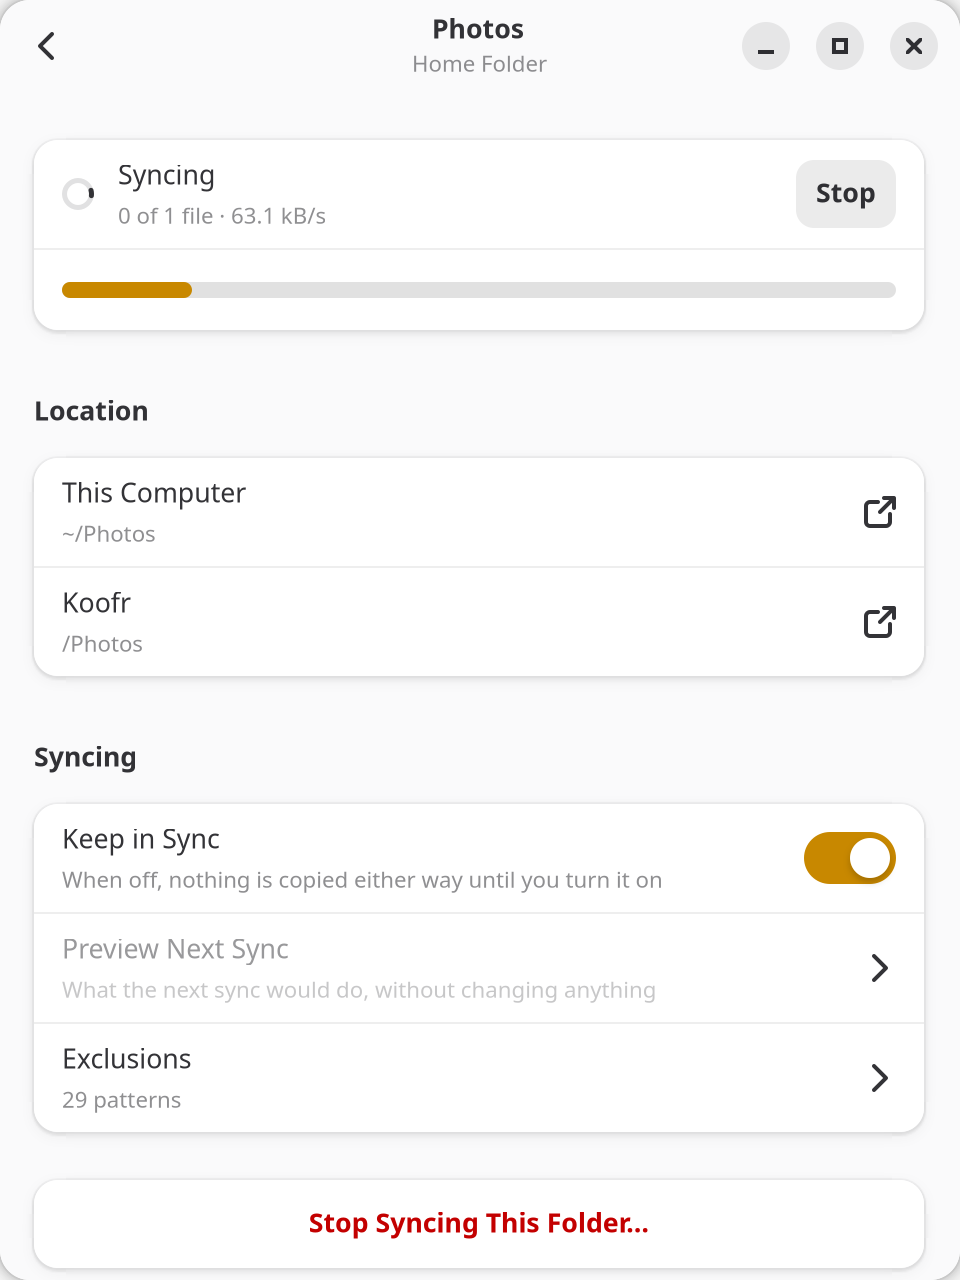
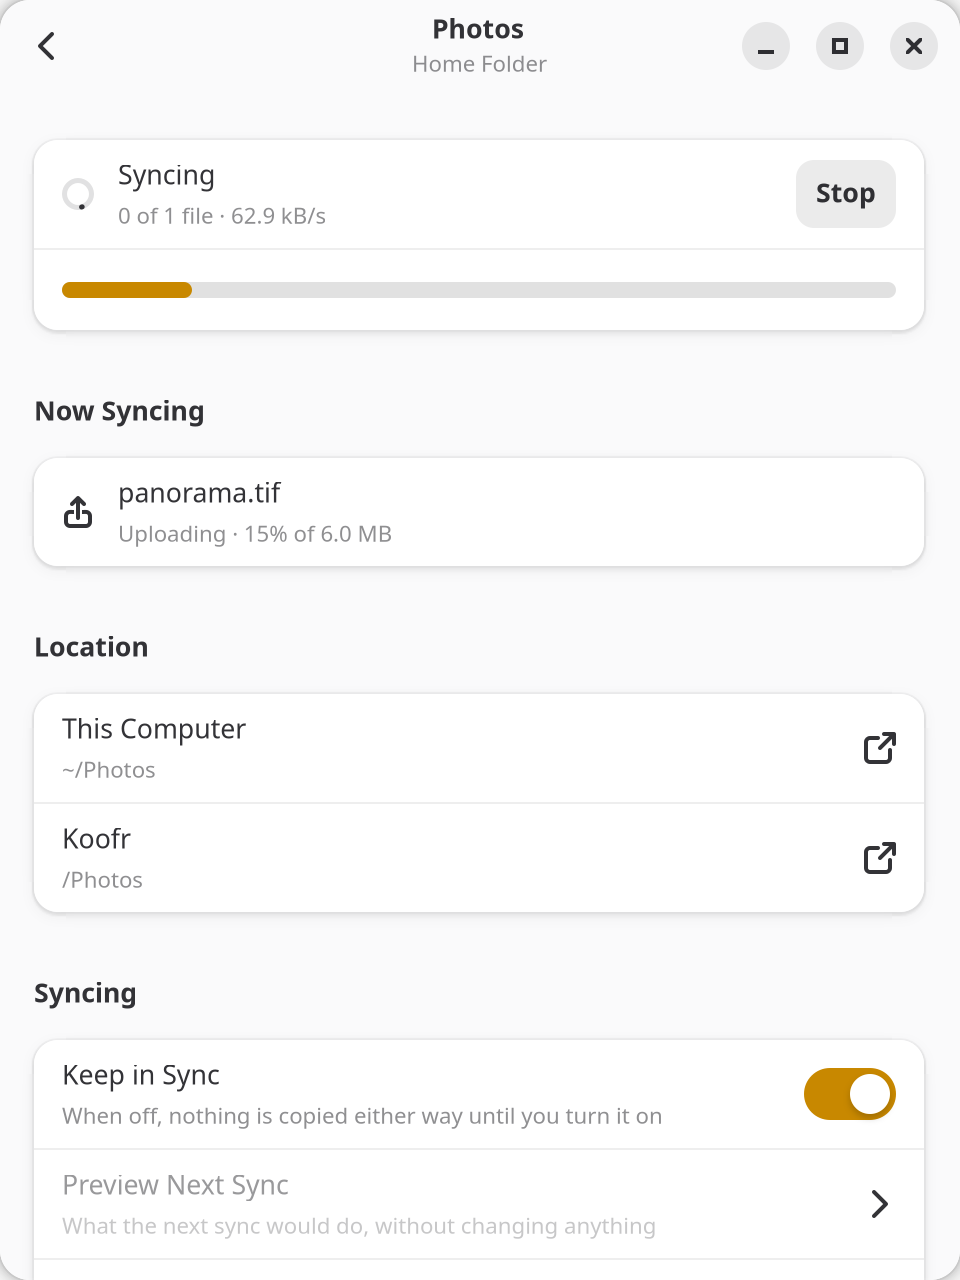
Spola 0.3.1: Koofr Desktop guard, files list and tray progress in the docs
Release notes for 0.3.1. README, site and the design notes (appendix L) say
that Spola does not sync while Koofr Desktop runs on the same computer or is
set to start at login, describe the list of files under the status and the
progress in the tray, and what happens on a metered network. New screenshots
of the main window and of a folder's page, with a file being uploaded.

The metered test now also checks that the stopped sync starts again on its
own once the network is no longer metered.

diff --git a/site/index.html b/site/index.html
@@ -77,8 +77,8 @@
 
   <figure>
     <img src="screenshots/main-window.png" width="480" height="600"
-         alt="Spola's window: the overall status at the top, then the folders grouped by where they are, one of them syncing">
-    <figcaption>What is going on at the top, then your folders, grouped by where they live.</figcaption>
+         alt="Spola's window: the overall status at the top, the file being uploaded with its progress, then the folders grouped by where they are">
+    <figcaption>What is going on at the top, the files on their way, then your folders, grouped by where they live.</figcaption>
   </figure>
 
   <h2>How it works</h2>
@@ -102,8 +102,8 @@
 
   <p>
     The tray icon keeps quiet while everything is up to date: it turns blue while syncing, orange when something
-    needs you, red on errors. Its menu lists the files being transferred and the last ones synced; a click shows
-    the file in Files.
+    needs you, red on errors. Hover it to see what is syncing and how far along it is; its menu starts with the
+    same line, then lists the files being transferred and the last ones synced, and a click shows the file in Files.
   </p>
   <p>
     I did not write a sync engine. Every sync is an <code>rclone bisync</code> run: <a href="https://rclone.org">rclone</a>
@@ -165,14 +165,15 @@
   <h2>Coming from Koofr Desktop</h2>
   <p>
     Spola can take your Koofr Desktop folders over: <code>spola import-koofr-desktop</code>, or
-    <code>ujust install-spola migrate</code> on Margine OS. Stop Koofr Desktop first: two sync engines on the
-    same folders is the quickest way to lose files. In my case the folders were already identical on both sides
+    <code>ujust install-spola migrate</code> on Margine OS. Spola does not sync while Koofr Desktop runs on the
+    same computer or is set to start at login: two sync engines on the same folders is the quickest way to lose
+    files, and I learned it the hard way. Koofr Desktop on your other computers is fine. In my case the folders were already identical on both sides
     and the first sync of each moved nothing, but you see that in the preview before anything happens.
   </p>
 
   <h2>Where it stands</h2>
   <p>
-    This is version 0.2. I use it every day on my own machine, with 16 folders and a few hundred gigabytes,
+    This is version 0.3. I use it every day on my own machine, with 16 folders and a few hundred gigabytes,
     and it replaced Koofr Desktop there. It is still young: if something looks wrong, please
     <a href="https://github.com/daniel-g-carrasco/spola/issues">open an issue</a>. It speaks English and Italian.
   </p>

diff --git a/tests/test_engine.py b/tests/test_engine.py
@@ -212,6 +212,12 @@ class EngineTest(unittest.TestCase):
         self.assertTrue(spin_until(lambda: self.engine.runtime["p1"].run is None, 120))
         self.assertIs(self.status(), Status.PAUSED)
         self.assertNotIn("big.bin", self.remote_files())
+        # back on a normal network: the sync starts again on its own and finishes
+        os.environ.pop("SPOLA_DEV_BWLIMIT")
+        self.engine.blocked_reason = lambda: ""
+        self.engine._on_conditions()
+        self.assertTrue(spin_until(lambda: "big.bin" in self.remote_files(), 120))
+        self.assertTrue(spin_until(lambda: self.status() is Status.OK, 30))
 
     def test_koofr_desktop_on_the_same_folder_stops_every_run(self):
         self.align()

diff --git a/src/spola/__init__.py b/src/spola/__init__.py
@@ -6,7 +6,7 @@ classification) is plain Python without GTK, and is covered by the tests in
 tests/. The GTK side (app, window, tray) only displays and triggers.
 """
 
-__version__ = "0.3.0"
+__version__ = "0.3.1"
 
 APP_ID = "io.github.daniel_g_carrasco.spola"
 APP_NAME = "Spola"

diff --git a/docs/progetto.md b/docs/progetto.md
@@ -314,7 +314,7 @@ La lezione di Koofr Desktop, trasformata in regole e in un test:
 - Stato sempre `Active`: con `Passive` l'estensione AppIndicator nasconde l'icona.
 - Test automatico: un minuto di inattività e un giro di sincronizzazione finto, contando i segnali sul bus; zero `NewIcon` a riposo.
 
-Menu del tray: stato, ultimo giro, "Sincronizza tutto", "Metti in pausa"/"Riprendi", "Apri", "Esci".
+Menu del tray: in cima lo stato e l'avanzamento (le stesse righe del suggerimento al passaggio del mouse), poi i sottomenu dei file in trasferimento e dei sincronizzati di recente, "Sincronizza ora", "Metti in pausa"/"Riprendi", "Apri Spola", "Esci".
 
 **Background e avvio** [V]: `org.freedesktop.portal.Background.RequestBackground` con avvio automatico e riga di comando con `--background`. Il portale stesso scrive `~/.config/autostart/<app-id>.desktop`, sia sotto GNOME sia sotto niri. libportal non è nel runtime GNOME 50, quindi la chiamata si fa con `Gio.DBusProxy`. L'app fa `hold()` e offre l'azione `app.quit`, che GNOME usa per il pulsante di chiusura delle app in background e che ferma rclone in modo pulito. `SetStatus` (il messaggio sotto il nome nelle app in background di GNOME) sotto niri fallisce: si chiama e si ignora l'errore.
 
@@ -564,3 +564,13 @@ Sul laptop Spola gira ancora dai sorgenti (`~/dev/spola`, unità `spola.service`
 - I menu di Dolphin e Thunar possono solo lanciare un comando: `gdbus call` con il percorso del file. Il servizio D-Bus accetta quindi anche percorsi semplici e ha due azioni complete, `OpenOnKoofr` (Spola apre il browser) e `ShowShareLink` (Spola crea il link e lo mostra con un pulsante Copia: su Wayland un'app in secondo piano non può scrivere negli appunti); fuori dalle cartelle sincronizzate risponde con una notifica.
 - Quali file manager: quelli che hanno lasciato le loro cartelle (`~/.config/nemo`, `~/.config/caja`, `~/.config/dolphinrc`, `uca.xml`), Files sempre; uno installato dopo viene preparato al successivo avvio di Spola.
 - Verifica: `tools/file_managers_smoke.sh` avvia ciascun file manager in un container Fedora 44 (`tools/file-managers.Containerfile`) con una home finta, Spola dai sorgenti e uno schermo X virtuale, e ne salva le schermate; per Dolphin compila e installa il plugin come dice il README e lancia i comandi del menu. Nel container serve seccomp non confinato: i caricatori di immagini di glycin aprono una propria sandbox bwrap.
+
+## Appendice L. Versione 0.3.1: Koofr Desktop, l'elenco dei file, l'avanzamento nel tray (2026-10-12)
+
+- Incidente: sul laptop Koofr Desktop girava ancora accanto a Spola. `ujust install-spola migrate` l'aveva disattivato rinominando `~/.config/autostart/koofr.desktop` in `koofr.desktop.disabled-by-spola`; gnome-session legge solo i `*.desktop`, ma sotto niri le voci di avvio automatico le avvia il generatore `xdg-autostart` di systemd, che esegue qualsiasi file della cartella, qualunque nome abbia. In un paio di minuti Koofr Desktop ha caricato su Koofr i marcatori `.spola-root` di 15 cartelle e alcuni file `.partial` di rclone (vuoti), e ha cancellato su Koofr un file appena scaricato da Spola. Recupero: il file è tornato dal cestino di Koofr con `POST /api/v2/trash/undelete` e l'elenco esplicito `{"files": [{"mountId", "path"}]}` (attenzione: con l'elenco vuoto Koofr ripristina tutto il cestino; il job si segue con `GET /api/v2/jobs/{id}`), i marcatori caricati sono stati cancellati, le cartelle `SyncTrash` di Koofr Desktop pure. margine-image (#498) ora sposta la voce fuori dalla cartella di avvio e ferma le unità `app-koofr*@autostart.service`.
+- Guardia: prima di ogni giro, anteprime e allineamenti compresi, `jobs.prepare` chiama `preflight.check_koofr_desktop`, che rifiuta se gira un processo di Koofr Desktop (`storagegui`, `storagesync`), se nella cartella di avvio automatico dell'host c'è un file che inizia con "koofr", lancia `storagegui` e non ha `Hidden=true`, o se i log in `~/.koofr/log` sono stati scritti negli ultimi 15 minuti. Nel Flatpak la cartella dell'host si trova con `HOST_XDG_CONFIG_HOME` o `~/.config`. Koofr Desktop su altri computer non c'entra: è il normale uso da più dispositivi.
+- Align e Review lasciavano la finestra ferma qualche secondo: la preparazione di un giro (controlli, nomi che Koofr rifiuta: 5 secondi su una cartella con migliaia di foto) avveniva nel thread principale. Ora avviene in un thread: il posto in coda si prende subito, con lo stato "Preparazione…", e il giro parte nel ciclo principale quando è pronto; Ferma durante la preparazione lo annulla.
+- Elenco dei file sotto lo stato (`activity.RunActivity`), dagli eventi di bisync: "Queue copy to Path1/Path2" e "Queue delete" (il lato dice la direzione), le statistiche "transferring" di rclone (l'avanzamento di ciascun file), "Copied", "Deleted" e lo spostamento nel backup. Un primo allineamento non accoda nulla: le sue copie si conoscono solo dalle statistiche e da "Copied". Un "Deleted" su questo computer arriva anche quando la vecchia versione va nel backup prima di scaricare la nuova: chiude solo una cancellazione. Quattro righe fisse (la finestra non cambia altezza): prima quelle in corso, poi le ultime finite, poi quelle in attesa. Icone di Adwaita: `folder-download-symbolic`, `send-to-symbolic`, `user-trash-symbolic`, `dialog-warning-symbolic`.
+- Tray: il suggerimento e le prime voci del menu dicono quale cartella si sincronizza, la percentuale, quanto resta e il tempo stimato. Se cambiano solo le etichette il menu manda `ItemsPropertiesUpdated` invece di `LayoutUpdated`, così un menu aperto non si ricostruisce, al massimo ogni 2 secondi; corretta la firma delle proprietà tolte (`a(ias)`).
+- Rete a consumo: se la preferenza è attiva, un giro automatico in corso si ferma quando la rete diventa a consumo; quelli avviati a mano e quelli confermati (allineamenti, riparazioni) proseguono. Quando la rete torna normale si riparte con `sync_all`, e un giro interrotto riprende con il recupero di bisync.
+- Colori di Noctalia nel Flatpak: Noctalia scrive `~/.config/gtk-4.0/gtk.css`, che importa `noctalia.css`; nel Flatpak GTK legge `$XDG_CONFIG_HOME/gtk-4.0`, dentro `~/.var/app`. Con `--filesystem=xdg-config/gtk-4.0:ro` Flatpak monta lì la cartella dell'host, in sola lettura.

diff --git a/README.md b/README.md
@@ -44,19 +44,19 @@ Spola never writes its own sync engine: rclone bisync does the work, and Spola p
 - **No surprise deletions.** A run that would delete more than 10% of a side stops and waits (small folders may lose up to 5 files). Files deleted or replaced on this computer go to a local backup, kept 30 days.
 - **Conflicts keep both versions**, with readable names (`report.conflict-local-2026-10-10-1.odt`, `report.conflict-koofr-2026-10-10-1.odt`).
 - **Unmounted drive, replaced folder:** the local folder must still be the one that was paired (a hidden `.spola-root` marker, or the same device and inode with known files in it), otherwise the pair stops before rclone runs.
-- **Folders that must never be synced** (the home folder itself, `~/.config`, `~/.var`, `~/.ssh`, system folders) are refused, and so is a folder that Koofr Desktop is still syncing.
+- **Folders that must never be synced** (the home folder itself, `~/.config`, `~/.var`, `~/.ssh`, system folders) are refused. Spola does not sync at all while Koofr Desktop runs on the same computer or is set to start at login: two engines on the same folders lose files. Koofr Desktop on your other computers is fine.
 - **Names Koofr refuses** (emoji, names that differ only in upper/lower case) are found before the first run.
 - **The password stays in the keyring**, and reaches rclone only through the environment of the child process, never on a command line.
 
 ## In the window
 
-At the top, the state of everything: up to date, syncing (with the folder and its progress), paused, or the folders waiting for you, with a Review button. Below, the folders grouped by the folder they live in (`~/data`, `~/data/media`...), one row each with its status; the Koofr path is shown only when it is not the same as the one in your home folder. Each folder has its own page: its status and the action it needs, where it is on both sides, Keep in Sync, a preview of the next sync, its exclusions (rclone filter syntax, seeded with sensible defaults), conflicts and files Koofr refuses, and removal. Conflicts are resolved from there: keep this computer's version, Koofr's, or both under readable names; the discarded one goes to the wastebasket.
+At the top, the state of everything: up to date, syncing (with the folder and its progress), paused, or the folders waiting for you, with a Review button. While a folder syncs, its files are listed under the status, each with what is happening to it (download, upload, deletion here or on Koofr, conflict) and its progress. Below, the folders grouped by the folder they live in (`~/data`, `~/data/media`...), one row each with its status; the Koofr path is shown only when it is not the same as the one in your home folder. Each folder has its own page: its status and the action it needs, where it is on both sides, Keep in Sync, a preview of the next sync, its exclusions (rclone filter syntax, seeded with sensible defaults), conflicts and files Koofr refuses, and removal. Conflicts are resolved from there: keep this computer's version, Koofr's, or both under readable names; the discarded one goes to the wastebasket.
 
 Adding a folder: choose it on this computer, then the folder on Koofr. Spola suggests the one in the same place (`~/data/work` and `/data/work`) or with the same name, and lets you browse your Koofr folders one level at a time, or make a new one; folders already synced cannot be chosen. The first alignment is shown as a preview before anything is copied.
 
-The tray icon stays in the panel's colour while everything is up to date or paused, turns blue while syncing, orange when something needs you and red on errors. Its menu lists the files being transferred and the five last synced: a click shows the file in Files.
+The tray icon stays in the panel's colour while everything is up to date or paused, turns blue while syncing, orange when something needs you and red on errors. Hovering it shows what is syncing and how far along it is, and so does the top of its menu, followed by the files being transferred and the five last synced: a click shows the file in Files.
 
-Preferences: account, pause on metered networks and in power saver mode, speed limits, start at login, the Files integration, backup retention, language of the conflict copies' names.
+Preferences: account, pause on metered networks (a sync started on its own stops when the network becomes metered, and starts again when it no longer is) and in power saver mode, speed limits, start at login, the Files integration, backup retention, language of the conflict copies' names.
 
 <p align="center">
   <img src="data/screenshots/add-folder.png" alt="Adding a folder: the folder on this computer, then the Koofr folder among suggestions or by browsing" width="480">
